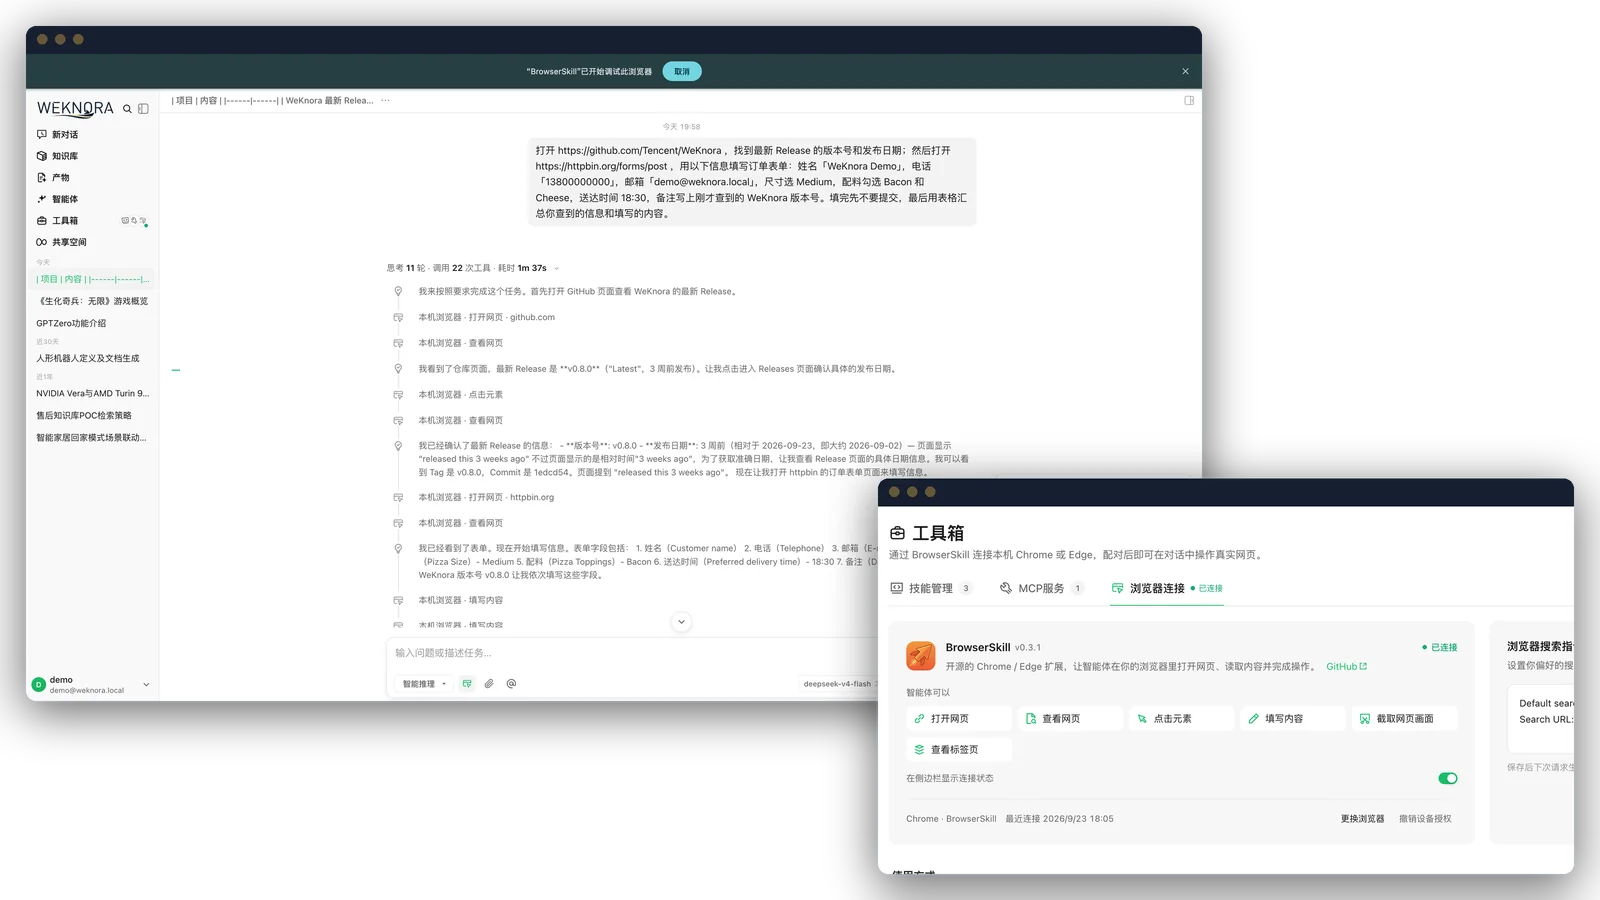
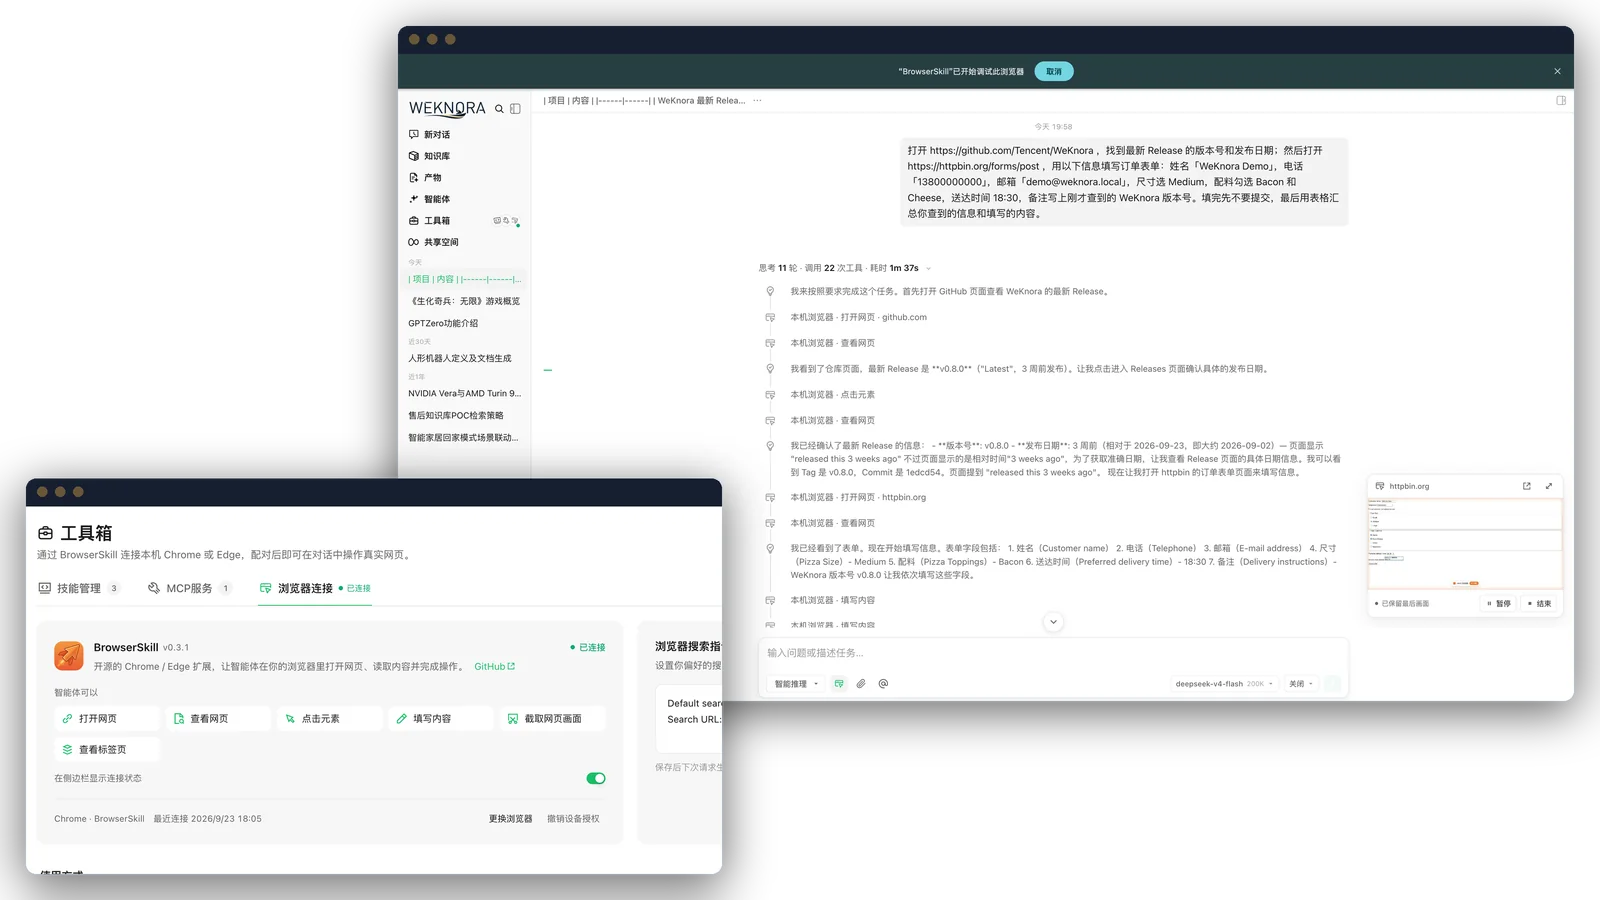
docs(readme): keep the browser task preview visible in its spotlight
The browser-connection window sat in the bottom-right corner, right over
the in-chat task preview that the main screenshot is meant to show. Let
each spotlight pick the corner for its side window and put the browser
one bottom-left, over the session list instead.

diff --git a/docs/images/readme/src/spotlights.py b/docs/images/readme/src/spotlights.py
@@ -13,12 +13,14 @@ OUT = os.path.dirname(HERE)
 ROOT = os.path.abspath(os.path.join(OUT, "..", "..", ".."))
 SHOTS = os.path.join(ROOT, "website-docs", "public", "screenshots")
 
-# (main shot, side shot, side crop as fractions of width/height, side window width)
+# (main shot, side shot, side crop as fractions of width/height, side window width, side corner)
+# The side window sits in the bottom corner where it hides the least of the main shot;
+# the browser shot keeps its task preview in the bottom right, so its side window goes left.
 SETS = {
-    "browser": ("local-browser-task.png", "browser-connection.png", (0.12, 0.0, 0.62, 0.48), 700),
-    "sandbox": ("skill-sandbox-chat.png", "sandbox-desktop.png", (0.545, 0.12, 1.0, 0.9), 560),
-    "wiki": ("wiki-browser.png", "wiki-graph.png", (0.15, 0.05, 0.75, 0.72), 680),
-    "observability": ("observability-langfuse.png", "kb-parse-timeline.png", (0.44, 0.0, 1.0, 0.5), 700),
+    "browser": ("local-browser-task.png", "browser-connection.png", (0.12, 0.0, 0.62, 0.48), 700, "left"),
+    "sandbox": ("skill-sandbox-chat.png", "sandbox-desktop.png", (0.545, 0.12, 1.0, 0.9), 560, "right"),
+    "wiki": ("wiki-browser.png", "wiki-graph.png", (0.15, 0.05, 0.75, 0.72), 680, "right"),
+    "observability": ("observability-langfuse.png", "kb-parse-timeline.png", (0.44, 0.0, 1.0, 0.5), 700, "right"),
 }
 THEMES = {
     "light": dict(bar=(246, 243, 237), border=(16, 31, 56, 34), dots=[(223, 209, 185)] * 3, shadow=(16, 31, 56, 70)),
@@ -66,13 +68,15 @@ def drop_shadow(canvas, win, xy, theme):
     canvas.alpha_composite(win, (x, y))
 
 
-for name, (main, side, crop, side_w) in SETS.items():
+for name, (main, side, crop, side_w, corner) in SETS.items():
     for theme in THEMES:
         canvas = Image.new("RGBA", (W * SCALE, H * SCALE), (0, 0, 0, 0))
         a = window(os.path.join(SHOTS, main), 1180, theme)
         b = window(os.path.join(SHOTS, side), side_w, theme, crop)
-        drop_shadow(canvas, a, (24 * SCALE, 24 * SCALE), theme)
-        drop_shadow(canvas, b, ((W - side_w - 24) * SCALE, (H - 24) * SCALE - b.height), theme)
+        main_x = 24 if corner == "right" else W - 1180 - 24
+        side_x = W - side_w - 24 if corner == "right" else 24
+        drop_shadow(canvas, a, (main_x * SCALE, 24 * SCALE), theme)
+        drop_shadow(canvas, b, (side_x * SCALE, (H - 24) * SCALE - b.height), theme)
         img = canvas.resize((W, H), Image.LANCZOS)
         img.save(os.path.join(OUT, f"spotlight-{name}-{theme}.webp"), "WEBP", quality=84, method=6)
 print("ok")
